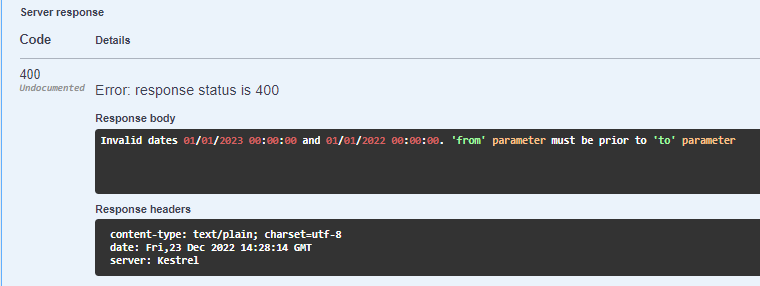
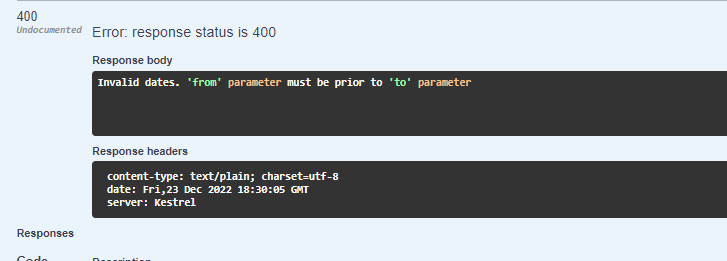
Update Testing_FromGreaterThanToResponse image

diff --git a/PaymentGateway/Controllers/PaymentsController.cs b/PaymentGateway/Controllers/PaymentsController.cs
@@ -140,8 +140,8 @@ namespace PaymentGateway.Controllers
 
                 if(DateTime.Compare(from, to.Value) > 0)
                 {
-                    _logger.LogInformation($"Invalid dates {from} and {to}. 'from' parameter must be prior to 'to' parameter");
-                    return BadRequest($"Invalid dates {from} and {to}. 'from' parameter must be prior to 'to' parameter");
+                    _logger.LogInformation("Invalid dates. 'from' parameter must be prior to 'to' parameter");
+                    return BadRequest("Invalid dates. 'from' parameter must be prior to 'to' parameter");
                 }
 
                 var parameters = new Dictionary<string, string>
